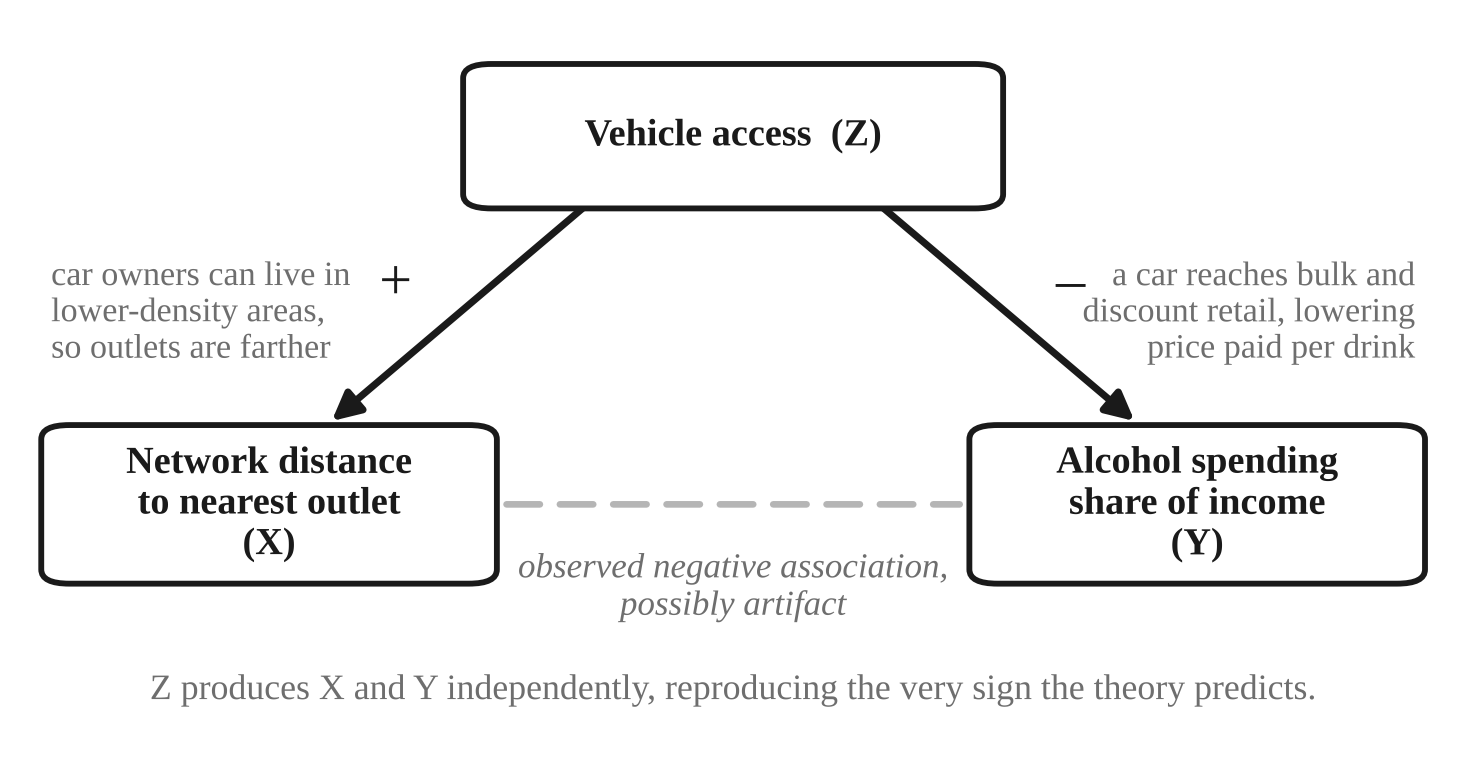
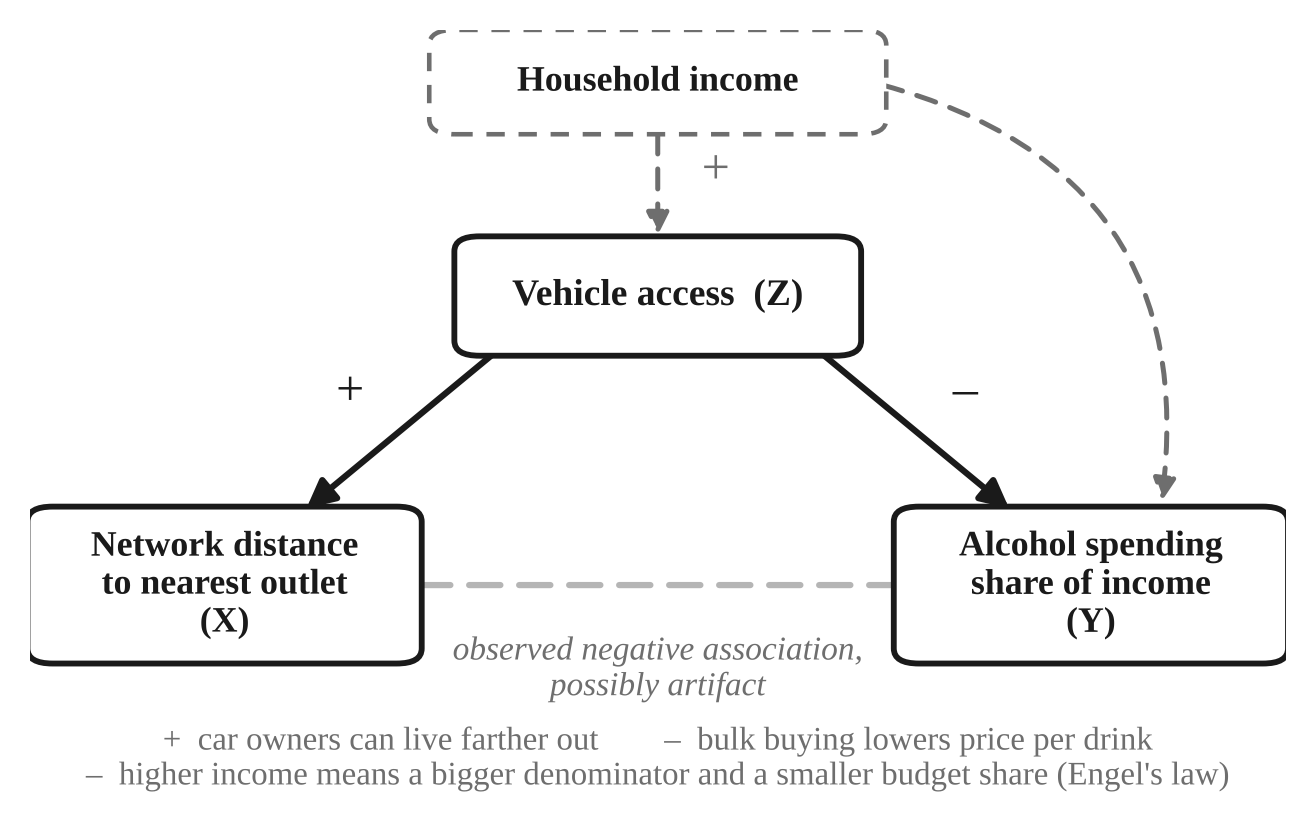
Revised figures based on feedback in presentation

diff --git a/figures.py b/figures.py
@@ -79,29 +79,32 @@ fig.savefig(OUT + "Figure1_operational_linkage.png", dpi=300)
 plt.close(fig)
 
 # ========================================================= FIGURE 2  spurious
-fig, ax = plt.subplots(figsize=(5.0, 2.66))
+fig, ax = plt.subplots(figsize=(5.4, 3.25))
 ax.set_xlim(0, 1); ax.set_ylim(0, 1); ax.axis("off")
-box(ax, 0.50, 0.85, 0.36, 0.18, "Vehicle access  (Z)")
-box(ax, 0.17, 0.33, 0.30, 0.20, "Network distance\nto nearest outlet\n(X)")
-box(ax, 0.83, 0.33, 0.30, 0.20, "Alcohol spending\nshare of income\n(Y)")
+box(ax, 0.50, 0.93, 0.34, 0.115, "Household income", fs=8.6, ec=GRAY, lw=1.1, ls=(0, (4, 3)))
+box(ax, 0.50, 0.645, 0.30, 0.135, "Vehicle access  (Z)", fs=9)
+box(ax, 0.155, 0.26, 0.29, 0.185, "Network distance\nto nearest outlet\n(X)", fs=8.6)
+box(ax, 0.845, 0.26, 0.29, 0.185, "Alcohol spending\nshare of income\n(Y)", fs=8.6)
 
-arrow(ax, (0.40, 0.76), (0.21, 0.44))
-ax.text(0.26, 0.62, "+", fontsize=14, color=INK, ha="center")
-ax.text(0.015, 0.60, "car owners can live in\nlower-density areas,\nso outlets are farther",
-        fontsize=8.2, color=GRAY, ha="left", va="center")
+arrow(ax, (0.50, 0.872), (0.50, 0.715), color=GRAY, lw=1.2, ls=(0, (4, 3)), ms=11)
+ax.text(0.535, 0.795, "+", fontsize=12, color=GRAY, ha="left")
 
-arrow(ax, (0.60, 0.76), (0.79, 0.44))
-ax.text(0.74, 0.62, "–", fontsize=14, color=INK, ha="center")
-ax.text(0.985, 0.60, "a car reaches bulk and\ndiscount retail, lowering\nprice paid per drink",
-        fontsize=8.2, color=GRAY, ha="right", va="center")
+arrow(ax, (0.385, 0.59), (0.215, 0.355), lw=1.5)
+ax.text(0.255, 0.50, "+", fontsize=12, color=INK, ha="center")
 
-ax.add_patch(FancyArrowPatch((0.33, 0.33), (0.67, 0.33), arrowstyle="-", lw=1.6,
+arrow(ax, (0.615, 0.59), (0.785, 0.355), lw=1.5)
+ax.text(0.745, 0.50, "\u2013", fontsize=12, color=INK, ha="center")
+
+ax.add_patch(FancyArrowPatch((0.67, 0.93), (0.90, 0.355), arrowstyle="-|>",
+             mutation_scale=11, color=GRAY, lw=1.2, linestyle=(0, (4, 3)),
+             shrinkA=3, shrinkB=3, connectionstyle="arc3,rad=-0.45", zorder=2))
+
+ax.add_patch(FancyArrowPatch((0.30, 0.26), (0.70, 0.26), arrowstyle="-", lw=1.5,
              color=LIGHT, linestyle=(0, (5, 3)), shrinkA=3, shrinkB=3, zorder=2))
-ax.text(0.50, 0.265, "observed negative association,\npossibly artifact", fontsize=8.4,
+ax.text(0.50, 0.195, "observed negative association,\npossibly artifact", fontsize=8,
         color=GRAY, ha="center", va="top", style="italic")
-ax.text(0.50, 0.055, "Z produces X and Y independently, reproducing the very sign the theory predicts.",
-        ha="center", fontsize=8.6, color=GRAY)
-fig.tight_layout()
+ax.text(0.50, 0.075, "+  car owners can live farther out        \u2013  bulk buying lowers price per drink\n\u2013  higher income means a bigger denominator and a smaller budget share (Engel's law)",
+        ha="center", va="top", fontsize=7.9, color=GRAY)
 fig.savefig(OUT + "Figure2_spurious.png", dpi=300, bbox_inches="tight")
 plt.close(fig)
 
@@ -126,14 +129,14 @@ a.text(0.5, 0.21, "How far the store is does not cause a\nhousehold to own a car
 b = axes[1]
 b.text(0.5, 0.95, "Works instead: Z at the front", ha="center", fontsize=11,
        fontweight="bold", color=INK)
-box(b, 0.15, 0.52, 0.26, 0.20, "Vehicle\naccess (Z)", fs=9)
-box(b, 0.50, 0.52, 0.345, 0.20, "Physical\naccessibility (X)", fs=8.6)
-box(b, 0.85, 0.52, 0.24, 0.20, "Spending\n(Y)", fs=9)
-arrow(b, (0.28, 0.52), (0.325, 0.52))
-arrow(b, (0.675, 0.52), (0.73, 0.52))
-b.text(0.302, 0.67, "+", fontsize=13, color=INK, ha="center")
-b.text(0.702, 0.67, "+", fontsize=13, color=INK, ha="center")
-b.text(0.5, 0.21, "The independent concept becomes the mediator. Both signs are\npositive: a car raises accessibility, accessibility raises spending.",
+box(b, 0.12, 0.52, 0.20, 0.20, "Vehicle\naccess (Z)", fs=8.5)
+box(b, 0.50, 0.52, 0.44, 0.20, "Physical accessibility\n(the concept)", fs=8.5)
+box(b, 0.88, 0.52, 0.20, 0.20, "Spending\n(Y)", fs=8.5)
+arrow(b, (0.22, 0.52), (0.28, 0.52))
+arrow(b, (0.72, 0.52), (0.78, 0.52))
+b.text(0.25, 0.67, "+", fontsize=13, color=INK, ha="center")
+b.text(0.75, 0.67, "+", fontsize=13, color=INK, ha="center")
+b.text(0.5, 0.19, "The independent CONCEPT, not the distance measure, becomes the\nmediator. A car raises accessibility; accessibility raises spending.",
        ha="center", fontsize=8.6, color=GRAY, style="italic")
 fig.tight_layout()
 fig.savefig(OUT + "Figure3_mediation.png", dpi=300, bbox_inches="tight")
@@ -208,6 +211,10 @@ arrow(ax, (cx["X"], BOT), (cx["Y"], BOT), color=GRAY, lw=1.2,
 ax.text(0.50, 0.335, "–   residual direct path (planned, stock-up purchases)",
         ha="center", fontsize=8.6, color=GRAY, style="italic",
         bbox=dict(fc="white", ec="none", pad=2.5))
+box(ax, 0.79, 0.955, 0.31, 0.09, "Household income (control)", fs=7.8, ec=GRAY, lw=1.1, ls=(0, (4, 3)))
+ax.add_patch(FancyArrowPatch((0.84, 0.910), (0.84, 0.805), arrowstyle="-|>",
+             mutation_scale=11, color=GRAY, lw=1.1, linestyle=(0, (4, 3)),
+             shrinkA=2, shrinkB=2, zorder=2))
 ax.annotate("", xy=(1.0, 0.13), xytext=(0.0, 0.13),
             arrowprops=dict(arrowstyle="->", color=LIGHT, lw=1.2))
 for k_, lab in [("X", "at residential choice"), ("M", "daily / weekly"), ("Y", "past 30 days")]:
